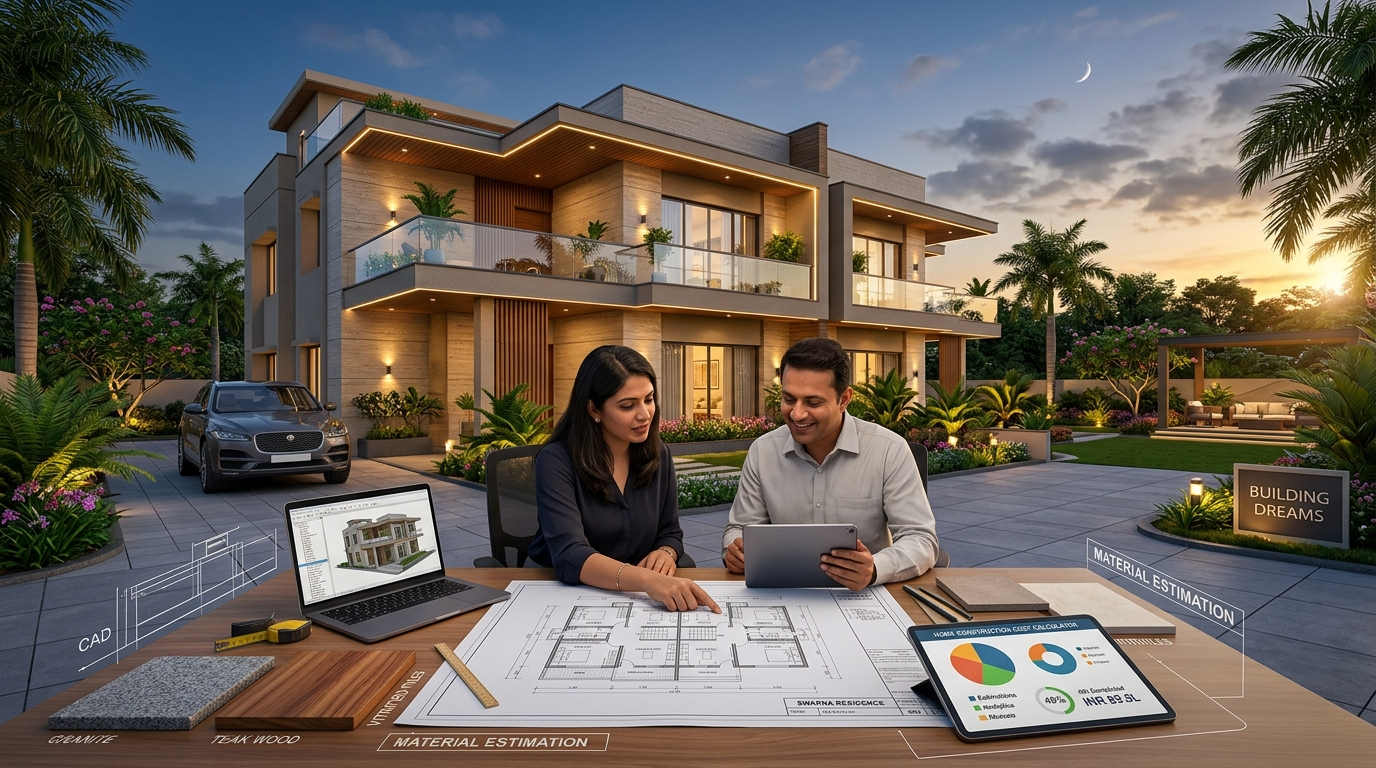
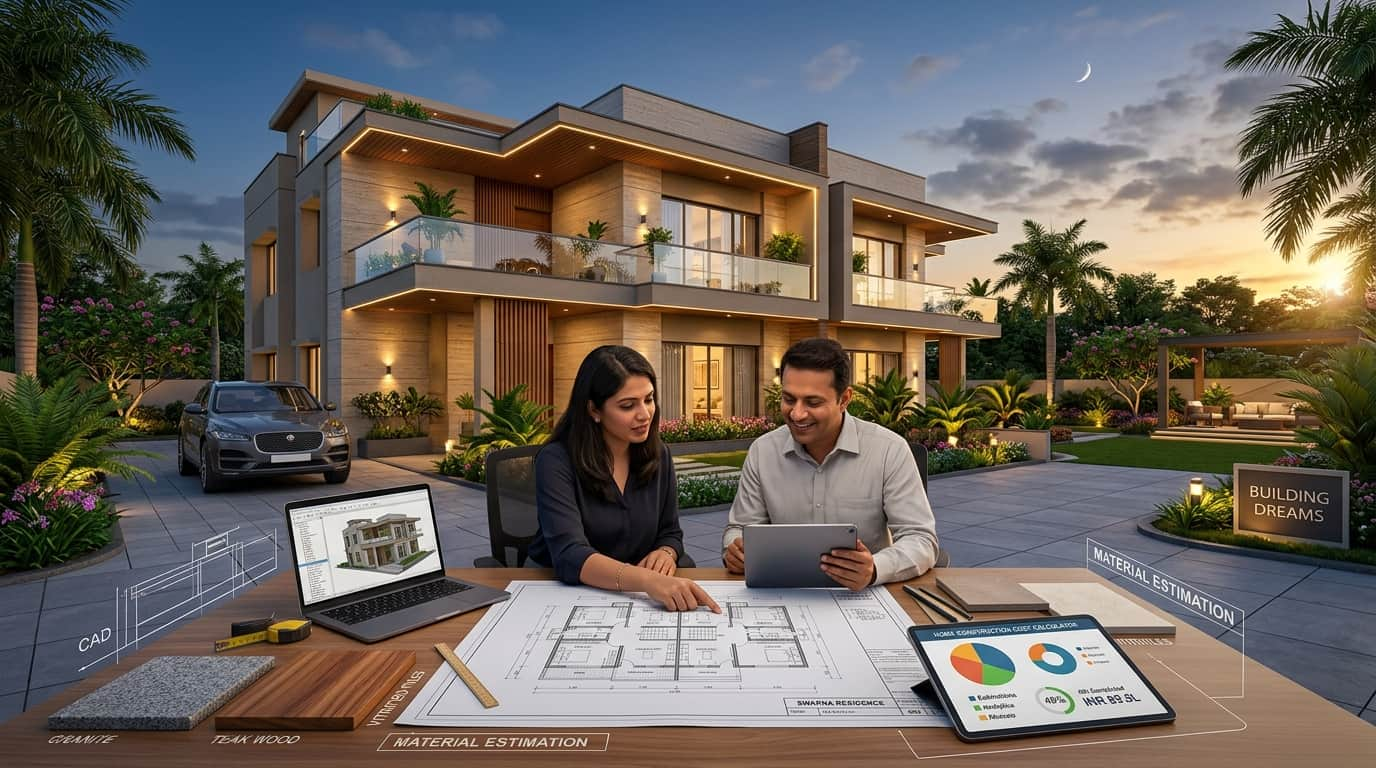
perf(hero): compress hero images to lightweight WebP (~85-125KB) for fast loading

diff --git a/src/components/layout/Hero.tsx b/src/components/layout/Hero.tsx
@@ -64,7 +64,7 @@ export default function Hero({ initialBanners }: { initialBanners: any[] }) {
         <div className="absolute inset-0 z-0">
           <div className="absolute inset-0 opacity-40 scale-105">
             <Image 
-              src={banners[0]?.image_url || "/images/hero/hero-india.jpg"} 
+              src={banners[0]?.image_url || "/images/hero/hero-india.webp"} 
               alt="Hero" 
               fill 
               priority 
@@ -122,10 +122,10 @@ export default function Hero({ initialBanners }: { initialBanners: any[] }) {
   // STANDARD HERO (If region is selected)
   const heroImageUrl =
     region === "AE"
-      ? "/images/hero/hero-uae.jpg"
+      ? "/images/hero/hero-uae.webp"
       : region === "US"
-      ? "/images/hero/hero-usa.jpg"
-      : "/images/hero/hero-india.jpg";
+      ? "/images/hero/hero-usa.webp"
+      : "/images/hero/hero-india.webp";
 
   return (
     <section 
